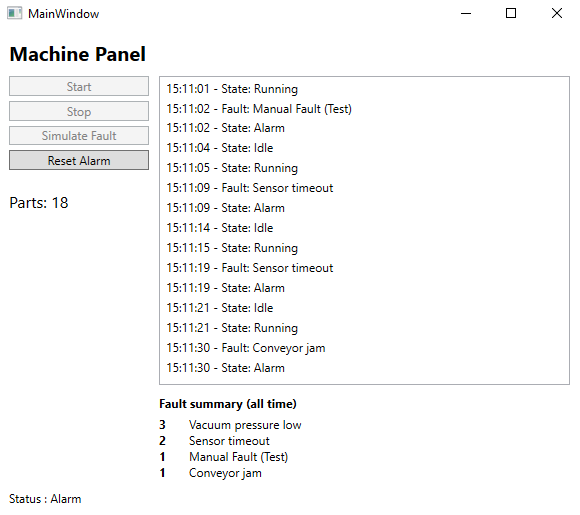
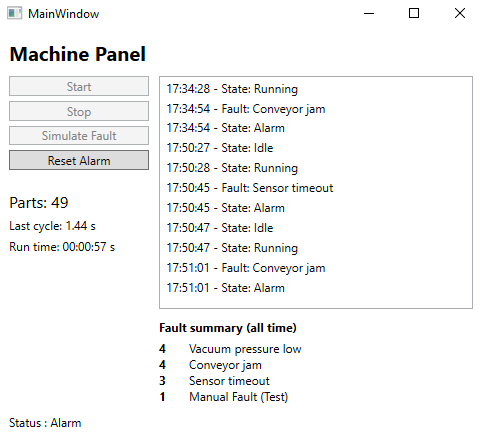
chore: set version to 0.1.1 feat: add variable cycle times and run time display docs: updated README features

diff --git a/MachinePanel/MainWindow.xaml b/MachinePanel/MainWindow.xaml
@@ -26,6 +26,8 @@
             <Button Content="Reset Alarm" Command="{Binding ResetAlarmCommand}" Margin="0,0,0,5"/>
 
             <TextBlock Text="{Binding PartCount, StringFormat='Parts: {0}'}" FontSize="16" Margin="0,15,0,0"/>
+            <TextBlock Text="{Binding LastCycleSeconds, StringFormat='Last cycle: {0:F2} s'}" Margin="0,5,0,0"/>
+            <TextBlock Text="{Binding RunTimeText, StringFormat='Run time: {0:F0} s'}" Margin="0,5,0,0"/>
         </StackPanel>
 
         <!--<ListBox Grid.Row="0" Grid.Column="1" ItemsSource="{Binding Log}"/> -->

diff --git a/MachinePanel/MainViewModel.cs b/MachinePanel/MainViewModel.cs
@@ -6,12 +6,14 @@ using System.Collections.ObjectModel;
 using System.Text;
 using System.Windows.Threading;
 using MachinePanel;
+using System.Diagnostics;
 
 public partial class MainViewModel : ObservableObject
 {
     private readonly Machine _machine = new();
     private readonly DispatcherTimer _timer;
     private readonly EventStore _eventStore = new();
+    private readonly Stopwatch _stopwatch = Stopwatch.StartNew();
 
     [ObservableProperty]
     [NotifyCanExecuteChangedFor(nameof(StartCommand), nameof(StopCommand), nameof(TriggerAlarmCommand), nameof(ResetAlarmCommand))]
@@ -19,6 +21,13 @@ public partial class MainViewModel : ObservableObject
 
     [ObservableProperty]
     private int _partCount;
+    [ObservableProperty]
+    private double _lastCycleSeconds;
+    [ObservableProperty]
+    [NotifyPropertyChangedFor(nameof(RunTimeText))]
+    private TimeSpan _totalElapsedDuration = TimeSpan.Zero;
+
+    public string RunTimeText => TotalElapsedDuration.ToString(@"hh\:mm\:ss");
 
     public ObservableCollection<string> Log { get; } = new();
     public ObservableCollection<FaultSummary> FaultSummaries { get; } = new();
@@ -28,11 +37,13 @@ public partial class MainViewModel : ObservableObject
         _machine.StateChanged += OnMachineStateChanged;
         _machine.PartCountChanged += OnMachinePartCountChanged;
         _machine.FaultOccurred += OnMachineFaultOccurred;
+        _machine.CycleCompleted += OnMachineCycleCompleted;
+        _machine.ElapsedDurationChanged += OnMachineTotalElapsedDurationChanged;
 
         State = _machine.State;
         PartCount = _machine.PartCount;
 
-        _timer = new DispatcherTimer { Interval = TimeSpan.FromSeconds(1) };
+        _timer = new DispatcherTimer { Interval = TimeSpan.FromMilliseconds(100) };
         _timer.Tick += OnTimerTick;
         _timer.Start();
 
@@ -57,7 +68,9 @@ public partial class MainViewModel : ObservableObject
 
     private void OnTimerTick(object? sender, EventArgs e)
     {
-        _machine.Tick();
+        var elapsed = _stopwatch.Elapsed;
+        _stopwatch.Restart();
+        _machine.Tick(elapsed);
     }
 
     private void OnMachineStateChanged()
@@ -73,6 +86,13 @@ public partial class MainViewModel : ObservableObject
     {
         AddLog(EventTypes.Fault, reason);
         RefreshFaultSummary();
+    }
+
+    private void OnMachineCycleCompleted(TimeSpan cycleTime) => LastCycleSeconds = cycleTime.TotalSeconds;
+
+    private void OnMachineTotalElapsedDurationChanged()
+    {
+        TotalElapsedDuration = _machine.TotalElapsedDuration;
     }
 
     private void AddLog(string eventType, string message)

diff --git a/MachinePanel/Machine.cs b/MachinePanel/Machine.cs
@@ -6,7 +6,10 @@ namespace MachinePanel;
 
 public class Machine
 {
-    private const double FaultChance = 0.05;
+    private const double FaultChancePerPart = 0.05;
+
+    private static readonly TimeSpan s_minCycleTime = TimeSpan.FromSeconds(0.8);
+    private static readonly TimeSpan s_maxCycleTime = TimeSpan.FromSeconds(1.5);
 
     private static readonly string[] s_faultReasons =
     {
@@ -15,11 +18,18 @@ public class Machine
         "Vacuum pressure low"
     };
 
+    private TimeSpan _cycleElapsed = TimeSpan.Zero;
+    private TimeSpan _cycleTarget = NextCycleTarget();
+
     public MachineState State { get; private set; } = MachineState.Idle;
     public int PartCount { get; private set; }
+    public TimeSpan TotalElapsedDuration { get; private set; }
+    
 
     public event Action? StateChanged;
     public event Action? PartCountChanged;
+    public event Action? ElapsedDurationChanged;
+    public event Action<TimeSpan>? CycleCompleted;
     public event Action<string>? FaultOccurred;
 
     public void Start()
@@ -40,6 +50,7 @@ public class Machine
     {
         if(State != MachineState.Alarm) return;
 
+        _cycleElapsed = TimeSpan.Zero;
         SetState(MachineState.Idle);
     }
 
@@ -51,18 +62,38 @@ public class Machine
         SetState(MachineState.Alarm);
     }
 
-    public void Tick()
+    public void Tick(TimeSpan elapsed)
     {
         if (State != MachineState.Running) return;
 
+        _cycleElapsed += elapsed;
+        TotalElapsedDuration += elapsed;
+
+        ElapsedDurationChanged?.Invoke();
+
+        if (_cycleElapsed < _cycleTarget) return;
+
+        var cycleTime = _cycleElapsed;
+        _cycleElapsed = TimeSpan.Zero;
+        _cycleTarget = NextCycleTarget();
+
         PartCount++;
         PartCountChanged?.Invoke();
+        CycleCompleted?.Invoke(cycleTime);
 
-        if(Random.Shared.NextDouble() < FaultChance)
+        if(Random.Shared.NextDouble() < FaultChancePerPart)
         {
             var reason = s_faultReasons[Random.Shared.Next(s_faultReasons.Length)];
             TriggerAlarm(reason);
         }
+    }
+
+    private static TimeSpan NextCycleTarget()
+    {
+        var range = s_maxCycleTime - s_minCycleTime;
+        var randomTime = s_minCycleTime + (range * Random.Shared.NextDouble());
+
+        return randomTime;
     }
 
     private void SetState(MachineState newState)

diff --git a/README.md b/README.md
@@ -9,8 +9,9 @@ A WPF desktop app that simulates a semiconductor-style equipment control panel: 
 ## Features
 
 - **Machine state machine:** Idle, Running, Stopped and Alarm, with buttons enabled only when an action is allowed in the current state
-- **Simulated production:** produces one part per second while running
-- **Random faults:** 5% chance per second of a fault (conveyor jam, sensor timeout, vacuum pressure low), plus a manual fault button for testing
+- **Simulated production:** each part takes a random 0.8–1.5 s cycle time; the panel shows the last cycle time
+- **Run time:** total time spent running (stopped and alarm time are excluded)
+- **Random faults:** 5% chance per part (conveyor jam, sensor timeout, vacuum pressure low), plus a manual fault button for testing
 - **Event log:** every state change and fault is shown with a timestamp
 - **Persistent history:** events are saved to a SQLite database and survive restarts
 - **Fault summary:** shows how often each fault has occurred, queried from the database
@@ -39,6 +40,18 @@ The app follows MVVM, with the machine logic kept independent of the UI.
 Because the machine is a separate class, the simulated machine can later be replaced with a real equipment connection (for example SECS/GEM or a PLC) without changing the UI.
 
 ## Getting started
+
+### Option 1 : Download the release (Windows x64 only)
+1. Download the latest release from the [Releases page](https://github.com/kelvinkosumic/MachinePanel/releases)
+2. Run `MachinePanel.exe`.
+
+Requires Windows x64. No .NET installation is needed because the runtime is included.
+
+> The app saves its database next to the `.exe`, so don't extract it into a protected folder like `Program Files`.
+>
+> Windows may show a SmartScreen warning because the app isn't code-signed. Click **More info**, then **Run anyway**.
+
+### Option 2 : Build from source
 
 Requirements:
 
@@ -76,3 +89,9 @@ ORDER BY Times DESC;
 
 - [ ] SECS/GEM communication with a simulated host
 - [ ] PLC connectivity
+
+## Author
+
+Build by Kelvin Goh Chor Cuang as a portfolio project for semiconductor equipment automation.
+
+[LinkedIn](www.linkedin.com/in/kelvin-goh-chor-cuang) · [GitHub](https://github.com/kelvinkosumic)
